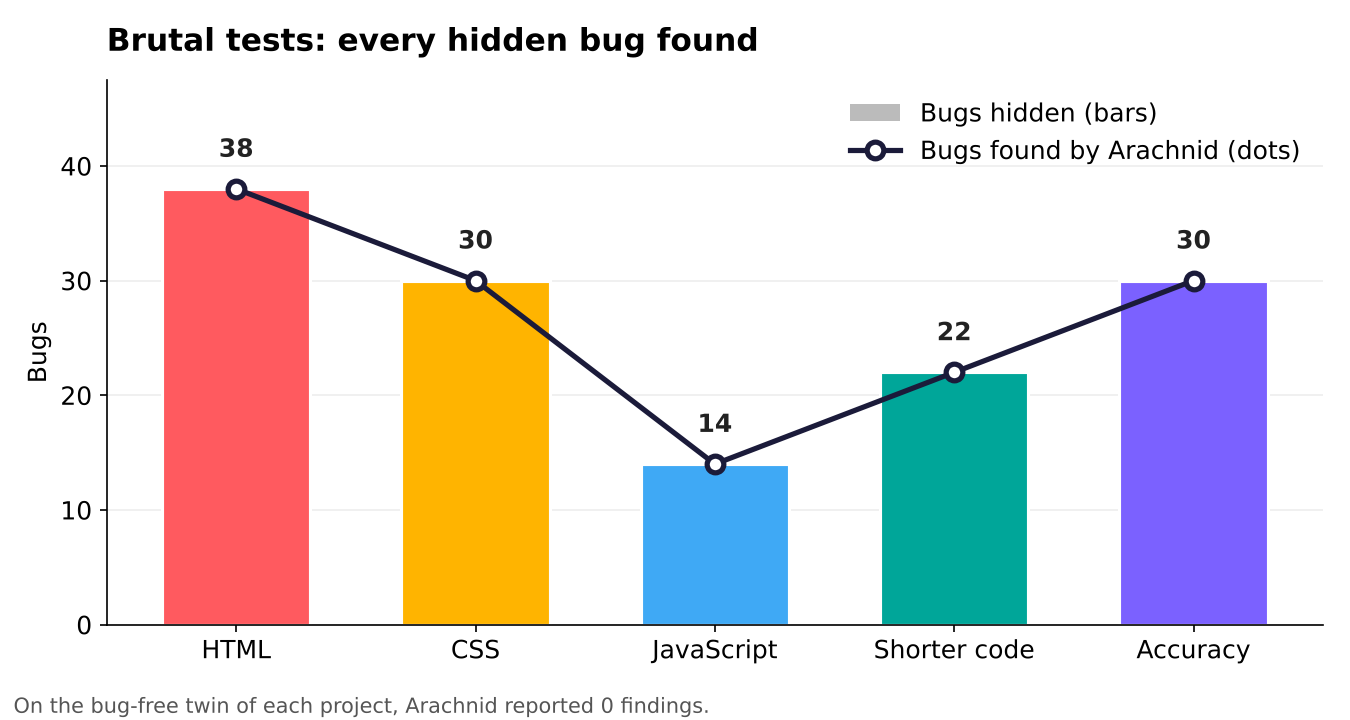
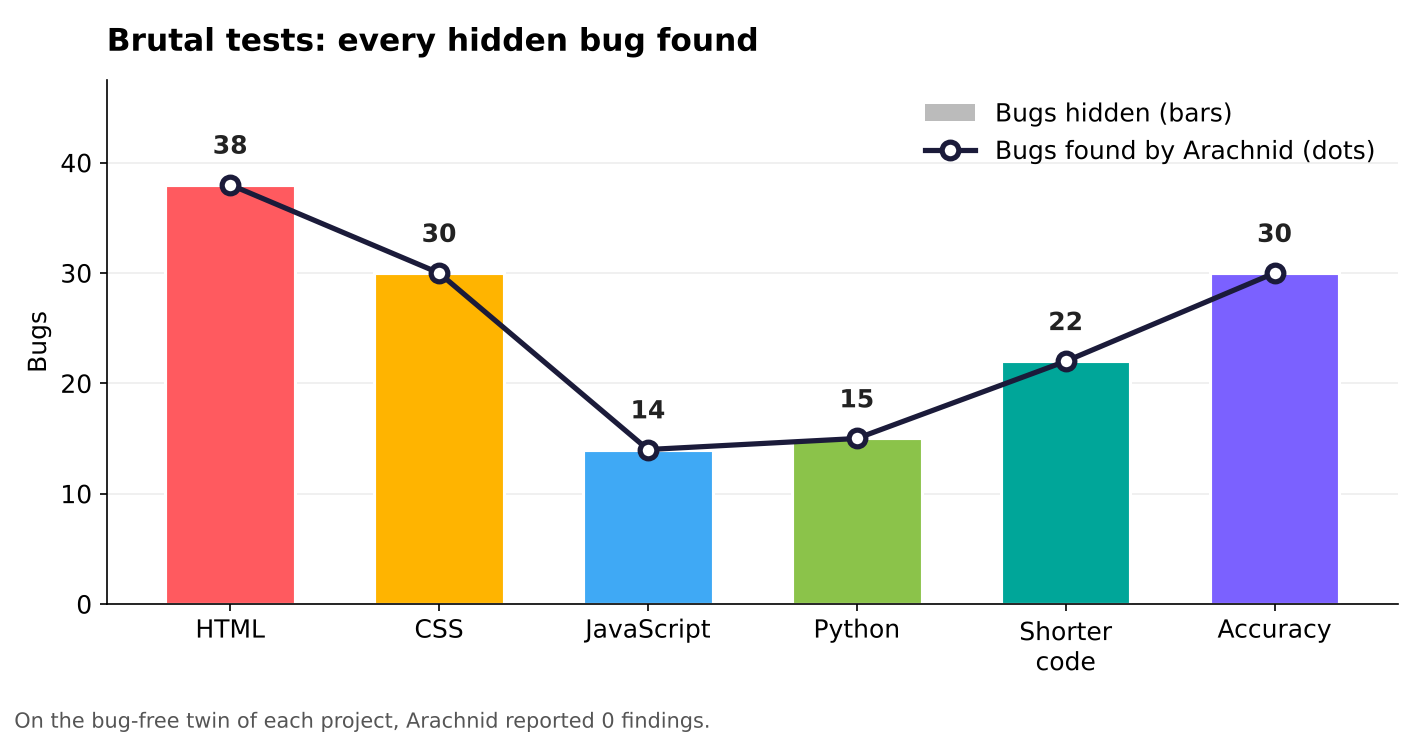
Python debugging leftovers: 6 new checks + brutal Python test (15/15, clean twin 0)

diff --git a/bugcheck.py b/bugcheck.py
@@ -109,6 +109,26 @@ RULES = {
     "py-falls-through": ("decision", "a function that sometimes returns nothing",
                          "some paths return a value, but if none of the conditions match the function ends and gives back None",
                          "add a final return (or raise) for the remaining cases"),
+    "py-breakpoint-left": ("decision", "a debugger pause left in the code",
+                           "breakpoint() / pdb.set_trace() STOPS the program and waits for someone to type at the keyboard - "
+                           "a server, a scheduled job or a test run simply hangs",
+                           "remove the line (it was only needed while you were hunting the bug)"),
+    "py-remote-debug-left": ("decision", "a remote debugger switched on in the code",
+                             "debugpy.listen() / a remote pdb opens a network door: whoever reaches that port can look inside "
+                             "the running program and run code in it",
+                             "remove it, or only switch it on from an environment variable on your own computer"),
+    "py-except-pass": ("idea", "errors silently swallowed",
+                       "`except Exception: pass` hides every error from this block, so if it breaks, nobody ever finds out why",
+                       "at least log it (`logging.exception(...)`), catch only the error you expect, or add a comment saying why it is safe"),
+    "py-assert-guard": ("decision", "a safety check written with assert",
+                        "Python skips every assert when it runs with -O (optimised mode), so this check silently disappears",
+                        "use `if not ...: raise PermissionError(...)` (or ValueError) instead of assert"),
+    "py-debug-print": ("idea", "debugging prints left in the code",
+                       "prints like `print(f\"{x=}\")` or `print(\"here\")` were written while hunting a bug and now show up for every user",
+                       "remove the ones that were only for debugging, or use logging.debug()"),
+    "py-debug-logging": ("idea", "logging left at DEBUG level",
+                         "DEBUG level writes every internal detail to the log - slow, noisy, and it can leak private data",
+                         "use INFO by default and switch DEBUG on from a setting or a --verbose option"),
     # ---------------------------------------------------------------- JavaScript / TypeScript
     "js-assign-in-condition": ("decision", "a condition that changes a value instead of comparing it",
                                "a single = puts a value in; the condition then only checks that value",
@@ -774,7 +794,118 @@ def _check_python(rel, text):
         if isinstance(node, ast.Subscript) and isinstance(node.slice, ast.BinOp) and isinstance(node.slice.op, ast.Div) and not uses_pandas:
             if not isinstance(node.value, ast.Name) or not re.search(r"(?i)(df|frame|data|path|dir|root)", node.value.id):
                 add(out, rel, line, "py-float-index", "`%s`" % ast.unparse(node)[:50])
+    _py_debug_leftovers(rel, text, tree, parent, module_funcs, out)
     return out
+
+
+PY_TEST_FILE = re.compile(r"(?i)(^|/)(tests?|testing|__tests__)/|(^|/)(test_[^/]*|[^/]*_tests?|conftest)\.py$")
+PY_PAUSE = {"breakpoint", "pdb.set_trace", "ipdb.set_trace", "pudb.set_trace", "debugpy.breakpoint", "pdbpp.set_trace",
+            "IPython.embed", "embed", "trepan.api.debug", "wdb.set_trace"}
+PY_REMOTE = {"debugpy.listen", "debugpy.wait_for_client", "pydevd.settrace", "pydevd_pycharm.settrace", "rpdb.set_trace",
+             "remote_pdb.set_trace", "RemotePdb", "remote_pdb.RemotePdb", "web_pdb.set_trace", "madbg.set_trace", "ptvsd.enable_attach",
+             "ptvsd.wait_for_attach"}
+PY_GUARD = re.compile(r"(?i)debug|verbose|pdb|breakpoint|trace|attach|environ|getenv|settings\.|config|DEV\b|args\.|opts?\.|flag")
+GUARDED_NAMES = re.compile(r"(?i)^(is_admin|is_superuser|is_staff|is_authenticated|is_authorized|is_authorised|is_logged_in|"
+                           r"logged_in|authenticated|authorized|authorised|has_perm|has_perms|has_permission|has_permissions|"
+                           r"has_access|check_password|verify_password|is_paid|is_verified|check_permission|check_permissions)$")
+
+
+def _py_debug_leftovers(rel, text, tree, parent, module_funcs, out):
+    """Things left behind while debugging Python by hand. Reported for a person to decide, never changed."""
+    lines = text.split("\n")
+    imports = {}
+    for n in ast.walk(tree):
+        if isinstance(n, ast.Import):
+            for a in n.names:
+                imports[a.asname or a.name.split(".")[0]] = a.name if a.asname else a.name.split(".")[0]
+        elif isinstance(n, ast.ImportFrom) and n.module:
+            for a in n.names:
+                imports[a.asname or a.name] = n.module + "." + a.name
+
+    def name_of(f):
+        d = _dotted(f)
+        if not d:
+            return ""
+        head, _, rest = d.partition(".")
+        full = imports.get(head, head)
+        return full + ("." + rest if rest else "")
+
+    def guarded(node):
+        """Inside `if DEBUG:` / `if os.environ.get(...)` / a function made for debugging / an except that is a crash hook."""
+        k = parent.get(node)
+        while k is not None:
+            if isinstance(k, (ast.If, ast.IfExp, ast.While)) and PY_GUARD.search(ast.unparse(k.test)):
+                return True
+            if isinstance(k, (ast.FunctionDef, ast.AsyncFunctionDef)) and re.search(r"(?i)debug|pdb|trace|breakpoint|excepthook|post_?mortem", k.name):
+                return True
+            k = parent.get(k)
+        return False
+
+    test_file = bool(PY_TEST_FILE.search(rel))
+    prints = []
+    for node in ast.walk(tree):
+        line = getattr(node, "lineno", 0)
+        if isinstance(node, ast.Call):
+            nm = name_of(node.func)
+            short = _dotted(node.func)
+            if (nm in PY_PAUSE or short in PY_PAUSE) and not (short in module_funcs) and not guarded(node):
+                if short == "embed" and not nm.startswith("IPython"):
+                    pass
+                elif short == "breakpoint" and imports.get("breakpoint"):
+                    pass                                # some other library's breakpoint()
+                else:
+                    add(out, rel, line, "py-breakpoint-left", "`%s()`" % short)
+            elif (nm in PY_REMOTE or short in PY_REMOTE) and not guarded(node):
+                add(out, rel, line, "py-remote-debug-left", "`%s(...)`" % short)
+            # logging at DEBUG level, written as a plain value (not chosen from a setting)
+            elif nm in ("logging.basicConfig",) or isinstance(node.func, ast.Attribute) and node.func.attr == "setLevel" and \
+                    re.fullmatch(r"(logging\.)?(getLogger\(\s*(['\"](root)?['\"])?\s*\)|root)", ast.unparse(node.func.value)):
+                lv = [kw.value for kw in node.keywords if kw.arg == "level"] if nm == "logging.basicConfig" else node.args[:1]
+                if any(kw.arg == "handlers" for kw in node.keywords):
+                    lv = []                             # the handlers decide what is shown - DEBUG here only lets them choose
+                if lv and re.fullmatch(r"(logging\.)?DEBUG|['\"]DEBUG['\"]|10", ast.unparse(lv[0])) and not test_file and not guarded(node):
+                    add(out, rel, line, "py-debug-logging", "`%s`" % ast.unparse(node)[:60])
+            # print(f"{x=}") / print("here")
+            elif short == "print" and node.args and not test_file and not guarded(node):
+                a0 = node.args[0]
+                seg = ast.get_source_segment(text, a0) or ""
+                if isinstance(a0, ast.JoinedStr) and re.search(r"\{[^{}]*[^=!<>{}]=\s*(![rsa])?(:[^{}]*)?\}", seg):
+                    prints.append(node)
+                elif isinstance(a0, ast.Constant) and isinstance(a0.value, str) and LEFTOVER_MSG.match(a0.value) and \
+                        a0.value.strip() not in ("", "-" * len(a0.value.strip()), "=" * len(a0.value.strip())):
+                    prints.append(node)
+        # except Exception: pass
+        if isinstance(node, ast.ExceptHandler) and node.type is not None and \
+                all(isinstance(s, ast.Pass) or isinstance(s, ast.Expr) and isinstance(s.value, ast.Constant) for s in node.body):
+            types = node.type.elts if isinstance(node.type, ast.Tuple) else [node.type]
+            if any(_dotted(x) in ("Exception", "BaseException") for x in types):
+                end = getattr(node, "end_lineno", node.lineno)
+                fn = parent.get(node)
+                while fn is not None and not isinstance(fn, (ast.FunctionDef, ast.AsyncFunctionDef)):
+                    fn = parent.get(fn)
+                body = "\n".join(lines[node.lineno - 1:end])
+                tr = parent.get(node)
+                one = tr.body[0] if isinstance(tr, ast.Try) and len(tr.body) == 1 else None
+                tiny = isinstance(one, (ast.Import, ast.ImportFrom)) or isinstance(one, ast.Expr) and isinstance(one.value, ast.Call) and \
+                    re.search(r"(?i)(^|[._])(close|remove|unlink|rmdir|rmtree|kill|terminate|cancel|shutdown|flush|delete|release|"
+                              r"unregister|disconnect|stop|join|cleanup|clean_?up|setlocale|chmod|chown|unlock|detach|dispose|"
+                              r"destroy|free|reset|restore|unsubscribe|discard)$", _dotted(one.value.func) or "")
+                if "#" not in body and not tiny and not (fn is not None and fn.name in ("__del__", "__exit__", "__repr__", "close", "cleanup")):
+                    add(out, rel, node.lineno, "py-except-pass", "`except %s: pass`" % ast.unparse(node.type)[:40])
+        # assert used to guard access or money (not in tests, where assert is the whole point)
+        if isinstance(node, ast.Assert) and not test_file and not rel.endswith("_test.py"):
+            names = {x.id for x in ast.walk(node.test) if isinstance(x, ast.Name)} | \
+                    {x.attr for x in ast.walk(node.test) if isinstance(x, ast.Attribute)} | \
+                    {_dotted(x.func).split(".")[-1] for x in ast.walk(node.test) if isinstance(x, ast.Call) and _dotted(x.func)}
+            hit = sorted(n for n in names if GUARDED_NAMES.search(n))
+            fn = parent.get(node)
+            while fn is not None and not isinstance(fn, (ast.FunctionDef, ast.AsyncFunctionDef)):
+                fn = parent.get(fn)
+            if hit and fn is not None and not re.match(r"(?i)test", fn.name):
+                add(out, rel, line, "py-assert-guard", "`assert %s`" % ast.unparse(node.test)[:50])
+    if prints:
+        add(out, rel, prints[0].lineno, "py-debug-print",
+            "%d debugging print%s (first here)" % (len(prints), "" if len(prints) == 1 else "s"))
 
 
 # =================================================================================================== JavaScript / TypeScript
@@ -1111,7 +1242,7 @@ def _check_js(rel, text):
 TEST_FILE = re.compile(r"(?i)(^|/)(tests?|__tests__|spec|e2e|cypress|playwright|stories|__mocks__)(/|$)|[._-](test|spec|stories)\.[jt]sx?$")
 LEFTOVER_MSG = re.compile(r"(?i)^\s*(?:here|here\s*\d+|(?:i'?m |got |made it |we'?re )?here!*|test(?:ing)?\s*\d*|asdf\w*|x{2,}|a{3,}|"
                           r"debug\s*\d*|check(?:point)?\s*\d*|it works|works|working|reached|inside|called|yay|wtf|"
-                          r"hello|hi|foo|bar|[!?.*=#>-]{2,}|\d{1,3})\s*[!.:?]*\s*$")
+                          r"hello|hi|foo|bar|\d{1,3})\s*[!.:?]*\s*$")
 DEBUG_GUARD = re.compile(r"(?i)\b(debug|verbose|dev(elopment)?|__DEV__|isDev|logging|log_?level|trace)\b")
 
 

diff --git a/qa_py_brutal.py b/qa_py_brutal.py
@@ -1,0 +1,117 @@
+#!/usr/bin/env python3
+"""
+ARACHNID - BRUTAL PYTHON TEST: debugging leftovers
+=================================================
+    python qa_py_brutal.py
+
+A small shop (payments, a web server, a command-line tool, a worker) with 15 things left behind while someone was
+debugging by hand: breakpoint() two ifs deep inside a loop, pdb.set_trace() renamed to stop() on import, ipdb and an
+IPython shell, a remote debugger open to the whole network, `except Exception: pass` (one hidden in a tuple, one written
+with ...), a login check and a permission check written with assert (both disappear with python -O), logging left at
+DEBUG, print(f"{x=}") ... and its CLEAN TWIN: correct code that LOOKS like the leftovers (a pause behind
+`if os.environ.get(...)`, a debug shell opened on purpose, our OWN function called breakpoint, an except that explains
+itself, asserts in tests, a level chosen from a setting, `f"{a == b}"`).
+
+Passes only if a full scan finds EVERY leftover on its exact line, and finds NOTHING AT ALL on the clean twin.
+"""
+import json
+import os
+import shutil
+import subprocess
+import sys
+import tempfile
+from pathlib import Path
+
+HERE = Path(__file__).resolve().parent
+LEDGER = HERE / "reports" / "ledger.jsonl"
+
+SHOP = {
+ "store/__init__.py": "",
+ "store/payments.py": "\"\"\"Payments for the shop.\"\"\"\nimport logging\n\nlog = logging.getLogger(__name__)\n\n\ndef charge(user, amount, cards):\n    assert user.is_authenticated, \"please log in first\"\n    assert user.has_perm(\"shop.charge\"), \"not allowed to charge\"\n    for card in cards:\n        if card.expired:\n            if card.retries > 2:\n                breakpoint()\n            continue\n        return card.charge(amount)\n    return None\n\n\ndef refund(order):\n    try:\n        order.refund()\n    except Exception:\n        pass\n    try:\n        order.notify()\n    except (ValueError, Exception):\n        pass\n    return order\n",
+ "store/server.py": "\"\"\"The web server.\"\"\"\nimport logging\nfrom pdb import set_trace as stop\n\nimport debugpy\n\nlogging.basicConfig(level=\"DEBUG\")\ndebugpy.listen((\"0.0.0.0\", 5678))\n\n\ndef handle(order_id, orders):\n    order = orders.get(order_id)\n    print(f\"{order_id=} {order=}\")\n    if order is None:\n        stop()\n    return order\n",
+ "store/cli.py": "\"\"\"Command line tool.\"\"\"\nimport logging\n\nimport ipdb\n\n\ndef main(argv):\n    logging.getLogger().setLevel(logging.DEBUG)\n    if len(argv) < 2:\n        ipdb.set_trace()\n    print(\"got here!!\")\n    return argv[1]\n",
+ "store/worker.py": "\"\"\"Background worker.\"\"\"\nfrom IPython import embed\nfrom remote_pdb import RemotePdb\n\n\ndef run(jobs):\n    done = 0\n    for job in jobs:\n        try:\n            job.run()\n            done += 1\n        except BaseException:\n            ...\n    if done == 0:\n        embed()\n    RemotePdb(\"0.0.0.0\", 4444).set_trace()\n    return done\n"
+}
+
+CLEAN = {
+ "store/__init__.py": "",
+ "store/payments.py": "\"\"\"Payments for the shop.\"\"\"\nimport logging\nimport os\n\nlog = logging.getLogger(__name__)\n\n\nclass PaymentError(Exception):\n    \"\"\"A payment that cannot be made.\"\"\"\n\n\ndef charge(user, amount, cards):\n    if not user.is_authenticated:\n        raise PermissionError(\"please log in first\")\n    if amount <= 0:\n        raise PaymentError(\"amount must be positive\")\n    assert isinstance(cards, list)\n    for card in cards:\n        if card.expired:\n            if os.environ.get(\"PAY_DEBUG\"):\n                breakpoint()\n            continue\n        return card.charge(amount)\n    return None\n\n\ndef refund(order):\n    try:\n        order.refund()\n    except Exception:\n        log.exception(\"refund failed for %s\", order)\n    try:\n        order.notify()\n    except Exception:  # a failed e-mail must never block the refund\n        pass\n    try:\n        order.archive()\n    except ValueError:\n        pass\n    return order\n\n\nclass Receipt:\n    \"\"\"A receipt file that closes itself.\"\"\"\n\n    def __init__(self, f):\n        self.f = f\n\n    def __del__(self):\n        try:\n            self.f.close()\n        except Exception:\n            pass\n",
+ "store/server.py": "\"\"\"The web server.\"\"\"\nimport logging\nimport os\n\nimport debugpy\n\nlevel = logging.DEBUG if os.environ.get(\"VERBOSE\") else logging.INFO\nlogging.basicConfig(level=level)\nlogging.basicConfig(level=logging.DEBUG if os.environ.get(\"V\") else logging.INFO)\nif os.environ.get(\"ATTACH_DEBUGGER\"):\n    debugpy.listen((\"127.0.0.1\", 5678))\n\n\ndef handle(order_id, orders):\n    order = orders.get(order_id)\n    print(f\"Order {order_id}: {order}\")\n    print(f\"{order_id == 0} {order_id:=^10}\")\n    return order\n",
+ "store/cli.py": "\"\"\"Command line tool.\"\"\"\nimport pdb\nimport sys\n\n\ndef breakpoint_here(argv):\n    \"\"\"Our own helper - not the built-in pause.\"\"\"\n    return argv[:1]\n\n\ndef debug_shell():\n    \"\"\"Opened on purpose with --shell.\"\"\"\n    pdb.set_trace()\n\n\ndef main(argv):\n    if \"--shell\" in argv:\n        debug_shell()\n    print(\"Starting the shop tool\")\n    print(\"-\" * 20)\n    return breakpoint_here(argv)\n\n\nif __name__ == \"__main__\":\n    sys.exit(main(sys.argv))\n",
+ "store/worker.py": "\"\"\"Background worker.\"\"\"\n\n\ndef run(jobs, queue):\n    done = 0\n    for job in jobs:\n        if job.wait:\n            queue.breakpoint(job)\n        done += job.run()\n    return done\n",
+ "main.py": "\"\"\"Starts the shop: see README.md.\"\"\"\nimport sys\n\nfrom store import cli, payments, server, worker\n\n\ndef start(argv):\n    receipt = payments.Receipt(open(\"receipt.txt\", \"w\", encoding=\"utf-8\"))\n    server.handle(1, {1: receipt})\n    worker.run([], None)\n    return cli.main(argv)\n\n\nif __name__ == \"__main__\":\n    sys.exit(start(sys.argv))\n",
+ "README.md": "# Shop\n\nRun `python main.py`. The code is in `store/`: `cli.py`, `payments.py`, `server.py`, `worker.py`.\n",
+ "tests/__init__.py": "",
+ "tests/test_payments.py": "from store.payments import charge, refund\n\n\nclass User:\n    is_authenticated = True\n    is_admin = True\n\n\ndef test_charge():\n    user = User()\n    assert user.is_admin\n    assert charge(user, 10, []) is None\n    print(\"here\")\n\n\ndef test_refund():\n    class Order:\n        def refund(self):\n            return 1\n\n        def notify(self):\n            return 1\n\n        def archive(self):\n            return 1\n    assert refund(Order()) is not None\n"
+}
+
+TRUTH = [
+ ('store/payments.py', 'assert user.is_authenticated', 'a login check written with assert (gone with python -O)'),
+ ('store/payments.py', 'assert user.has_perm', 'a permission check written with assert (gone with python -O)'),
+ ('store/payments.py', 'breakpoint()', 'a breakpoint() hidden two ifs deep inside a loop'),
+ ('store/payments.py', '    except Exception:', 'a failed refund swallowed in silence'),
+ ('store/payments.py', 'except (ValueError, Exception):', 'every error swallowed, hidden inside a tuple'),
+ ('store/server.py', 'logging.basicConfig(level="DEBUG")', 'the whole server logging at DEBUG level'),
+ ('store/server.py', 'debugpy.listen(', 'a remote debugger open to the whole network'),
+ ('store/server.py', 'print(f"{order_id=}', 'a print(f"{x=}") debugging line'),
+ ('store/server.py', '        stop()', 'pdb.set_trace() renamed to stop() on import'),
+ ('store/cli.py', 'logging.getLogger().setLevel(logging.DEBUG)', 'the root logger set to DEBUG'),
+ ('store/cli.py', 'ipdb.set_trace()', 'an ipdb pause'),
+ ('store/cli.py', 'print("got here!!")', 'a print("got here!!") leftover'),
+ ('store/worker.py', 'except BaseException:', 'every error (even Ctrl+C) swallowed with ...'),
+ ('store/worker.py', '        embed()', 'an IPython shell that opens when nothing was done'),
+ ('store/worker.py', 'RemotePdb(', 'a remote pdb listening on the network'),
+]
+
+
+def write(root, files):
+    for rel, text in files.items():
+        p = Path(root) / rel
+        p.parent.mkdir(parents=True, exist_ok=True)
+        p.write_text(text, encoding="utf-8")
+
+
+def scan(root):
+    subprocess.run([sys.executable, str(HERE / "arachnid.py"), "scan", str(root)], capture_output=True, text=True, errors="replace", timeout=900)
+    ents = []
+    for ln in (LEDGER.read_text("utf-8", "replace").splitlines() if LEDGER.exists() else []):
+        try:
+            ents.append(json.loads(ln))
+        except ValueError:
+            pass
+    return ents
+
+
+def main():
+    tmp = Path(tempfile.mkdtemp(prefix="arachnid-brutal-py-"))
+    keep = tmp / "reports-backup"
+    if (HERE / "reports").exists():
+        shutil.copytree(HERE / "reports", keep)
+    try:
+        write(tmp / "shop", SHOP)
+        write(tmp / "clean", CLEAN)
+        ents = scan(tmp / "shop")
+        caught = 0
+        print("HIDDEN LEFTOVERS (each must be found on its exact line)")
+        for f, needle, what in TRUTH:
+            line = next(i for i, l in enumerate(SHOP[f].splitlines(), 1) if needle in l)
+            hits = [e for e in ents if e["file"].replace(chr(92), "/").endswith(f) and int(e.get("line") or 0) == line]
+            caught += bool(hits)
+            print("  %-6s %-14s %3d  %s" % ("FOUND" if hits else "MISSED", f, line, what))
+        # shorter-code suggestions (slim) are not bug reports: they have their own brutal test (qa_slim_brutal.py)
+        noise = [e for e in scan(tmp / "clean") if e.get("tool") != "slim"]
+        print("\nCLEAN TWIN (must stay completely quiet)")
+        for e in noise:
+            print("  FALSE ALARM  [%s] %s:%s %s" % (e["tool"], e["file"], e.get("line"), e["what"][:100]))
+        print("  %d finding(s)" % len(noise))
+        print("\nBRUTAL PYTHON SCORE: %d of %d hidden leftovers found, %d false alarm(s) on the clean twin" % (caught, len(TRUTH), len(noise)))
+        return 0 if caught == len(TRUTH) and not noise else 1
+    finally:
+        if keep.exists():
+            shutil.rmtree(HERE / "reports", ignore_errors=True)
+            shutil.copytree(keep, HERE / "reports", dirs_exist_ok=True)
+        shutil.rmtree(tmp, ignore_errors=True)
+
+
+if __name__ == "__main__":
+    sys.exit(main())

diff --git a/textcheck.py b/textcheck.py
@@ -171,7 +171,7 @@ def clean_md(s):
     s = re.sub(r"^\s*>+\s?", "", s)
     s = re.sub(r"^\s*#{1,6}\s+", "", s)
     s = LIST_MARK.sub("", s)
-    s = re.sub(r"`[^`]*`", " CODE ", s)
+    s = re.sub(r"`[^`]*`", "CODE", s)                # no padding: "`a.py`, `b.py`" must not become "CODE , CODE"
     s = re.sub(r"!\[([^\]]*)\]\([^)]*\)", r"\1", s)
     s = re.sub(r"\[([^\]]*)\]\([^)]*\)", r"\1", s)
     s = re.sub(r"\[([^\]]*)\]\[[^\]]*\]", r"\1", s)

diff --git a/README.md b/README.md
@@ -19,6 +19,7 @@ again on every push, so if Arachnid ever gets worse, the badge above turns red.
 | A shop website with **38 bugs hidden** in its HTML, forms, scripts and styles | **38 / 38** found on the exact line · **0** findings on the same site with the bugs fixed | `python qa_html_brutal.py` |
 | A studio website with **30 hidden CSS bugs** | **30 / 30** found · **0** on the clean twin | `python qa_css_brutal.py` |
 | A shop's JavaScript with **14 debugging leftovers** (`debugger;`, swallowed errors, errors thrown as text, timers never stopped, `console.log("here")`) | **14 / 14** found · **0** on the clean twin | `python qa_js_brutal.py` |
+| A Python shop with **15 debugging leftovers** (`breakpoint()`, a remote debugger open to the network, `except Exception: pass`, a login check written with `assert`) | **15 / 15** found · **0** on the clean twin | `python qa_py_brutal.py` |
 | AI-style long code, plus **15 traps** that only *look* shorter | **22 / 22** shorter versions found · **0** traps touched · **0** behaviour differences in 447 side-by-side calls | `python qa_slim_brutal.py` |
 | **30 planted problems** and **20 correct look-alikes**, across languages | **30 / 30** found · **0** false complaints | `python qa_accuracy.py` |
 | A change that moves a picture by **one pixel** | caught - the fix is **not** applied | `python arachnid.py selftest` |
@@ -47,6 +48,7 @@ and finds **nothing at all** on the clean twin.
 | **CSS** (30 bugs) | a studio site: 1 page, 4 style sheets | `var(--brand-colour)` when the variable is spelled `--brand-color` · `@media (max-width: 768)` with no `px`, so the phone layout never turns on · `calc(100%-2rem)` with no spaces, which browsers ignore · `text-align: centre` · white text on a white background · a banner wider than a phone screen |
 | **Shorter code** (22 + 15 traps) | a small project written the long, AI-style way in Python, JavaScript and TypeScript | 22 places that really can be shorter, and 15 **traps** that only *look* like they can - for example, a loop of decimal numbers, which `sum()` would add slightly differently. Arachnid must shorten the 22, leave all 15 traps alone, and the old and new code must give exactly the same answers when run side by side |
 | **JavaScript leftovers** (14) | a small shop: a page with an inline script, 2 scripts, a React component, a TypeScript file | a `debugger;` that freezes the page for anyone with developer tools open · an empty `catch {}` that hides a broken saved cart · `throw "Item id is missing"` (text, not an Error, so no record of where it happened) · `console.time("total")` ended as `console.timeEnd("Total")` · a `console.group()` never closed · `console.log("got here!!")`. The clean twin is full of look-alikes that must stay quiet: `options.debugger = true`, a `catch` with a comment explaining it, `throw new Error(...)`, real log messages, a test file and a command-line tool that are allowed to log |
+| **Python leftovers** (15) | a small shop: payments, a web server, a command-line tool, a background worker | a `breakpoint()` two `if`s deep inside a loop (the server just **hangs**, waiting for someone to type) · `pdb.set_trace` renamed to `stop()` when it was imported · `debugpy.listen(("0.0.0.0", 5678))`, a door into the running program for anyone on the network · `except (ValueError, Exception): pass` · `assert user.is_authenticated` (Python skips asserts with `-O`, so the login check vanishes) · logging left at DEBUG · `print(f"{order_id=}")`. The clean twin has look-alikes that must stay quiet: a pause behind `if os.environ.get(...)`, a debug shell opened on purpose with `--shell`, `queue.breakpoint(job)`, an `except` with a comment explaining it, asserts inside tests, a log level chosen from a setting |
 | **Accuracy** (30 + 20 look-alikes) | small files in several languages | 30 planted problems that must be found, and 20 pieces of correct code that look wrong, where Arachnid must stay quiet |
 
 **Security test.** Six apps that security teams build *on purpose* with known holes, to train people. Their
@@ -105,6 +107,7 @@ complains about correct code. (It found real bugs in matplotlib, scikit-learn, m
 | Language | Examples |
 |---|---|
 | **Python** | `if x == "a" or "b"` (always true) · `items = items.sort()` (None) · `name.strip()` (result thrown away) · `"Hello {name}"` without `f` · `range(len(x) + 1)` · a `while` loop whose variable never changes · `int(input())` that crashes on letters · a default like `when=datetime.now()` that never updates · an error created but not raised · a grade function that returns nothing for low scores |
+| **Python debugging leftovers** | `breakpoint()`, `pdb` / `ipdb` / `pudb` / IPython `embed()` left in (the program hangs, waiting for the keyboard) · `debugpy.listen()` or a remote pdb (a network door into the program) · `except Exception: pass` · `assert` guarding a login or a permission (gone with `python -O`) · ideas: `print(f"{x=}")` / `print("here")`, logging left at DEBUG |
 | **JavaScript / TypeScript** | `if (x = 5)` · `x === NaN` · `typeof x === "numbr"` · `return` with the value on the next line · `fetch()` used without `await` · `forEach(async ...)` · `useEffect(async ...)` · `onClick={handle()}` · `i <= list.length` · `.lenght`, `innerHtml` · `getElementById("#menu")` · `new Date(2024, 12, 1)` · a duplicate `case` |
 | **JavaScript debugging leftovers** | a `debugger;` left in the code (freezes the page for anyone with developer tools open) · an empty `catch {}` that hides errors · `throw "text"` instead of `throw new Error(...)` · `console.time()` with no matching `timeEnd()`, a `console.group()` never closed · ideas: `console.log("here")`-style lines left in page code |
 | **HTML** | the same id twice · a `<label>` for a missing id · a quantity or price field that accepts negative numbers · a button that submits the form by accident · `type="emial"` · a script with a misspelled type · a script looking for an element no page has · `onclick` calling a function that does not exist |
@@ -416,6 +419,7 @@ python qa_accuracy.py         # 30 planted problems must be found, 20 clean look
 python qa_html_brutal.py      # a shop website with 38 deeply hidden bugs: all must be found, its clean twin must get 0 findings
 python qa_css_brutal.py       # a studio website with 30 deeply hidden CSS bugs: all must be found, its clean twin must get 0 findings
 python qa_js_brutal.py        # a shop's JavaScript with 14 debugging leftovers: all must be found, its clean twin must get 0 findings
+python qa_py_brutal.py        # a Python shop with 15 debugging leftovers: all must be found, its clean twin must get 0 findings
 python qa_slim_brutal.py      # shorter code: 22 proven shorter versions found, 15 traps untouched, old and new code behave identically, wrong AI answers stopped
 python qa_stress.py           # 15 kinds of projects: unicode names, 1500 files, symlink loops, CRLF, ...
 ```
